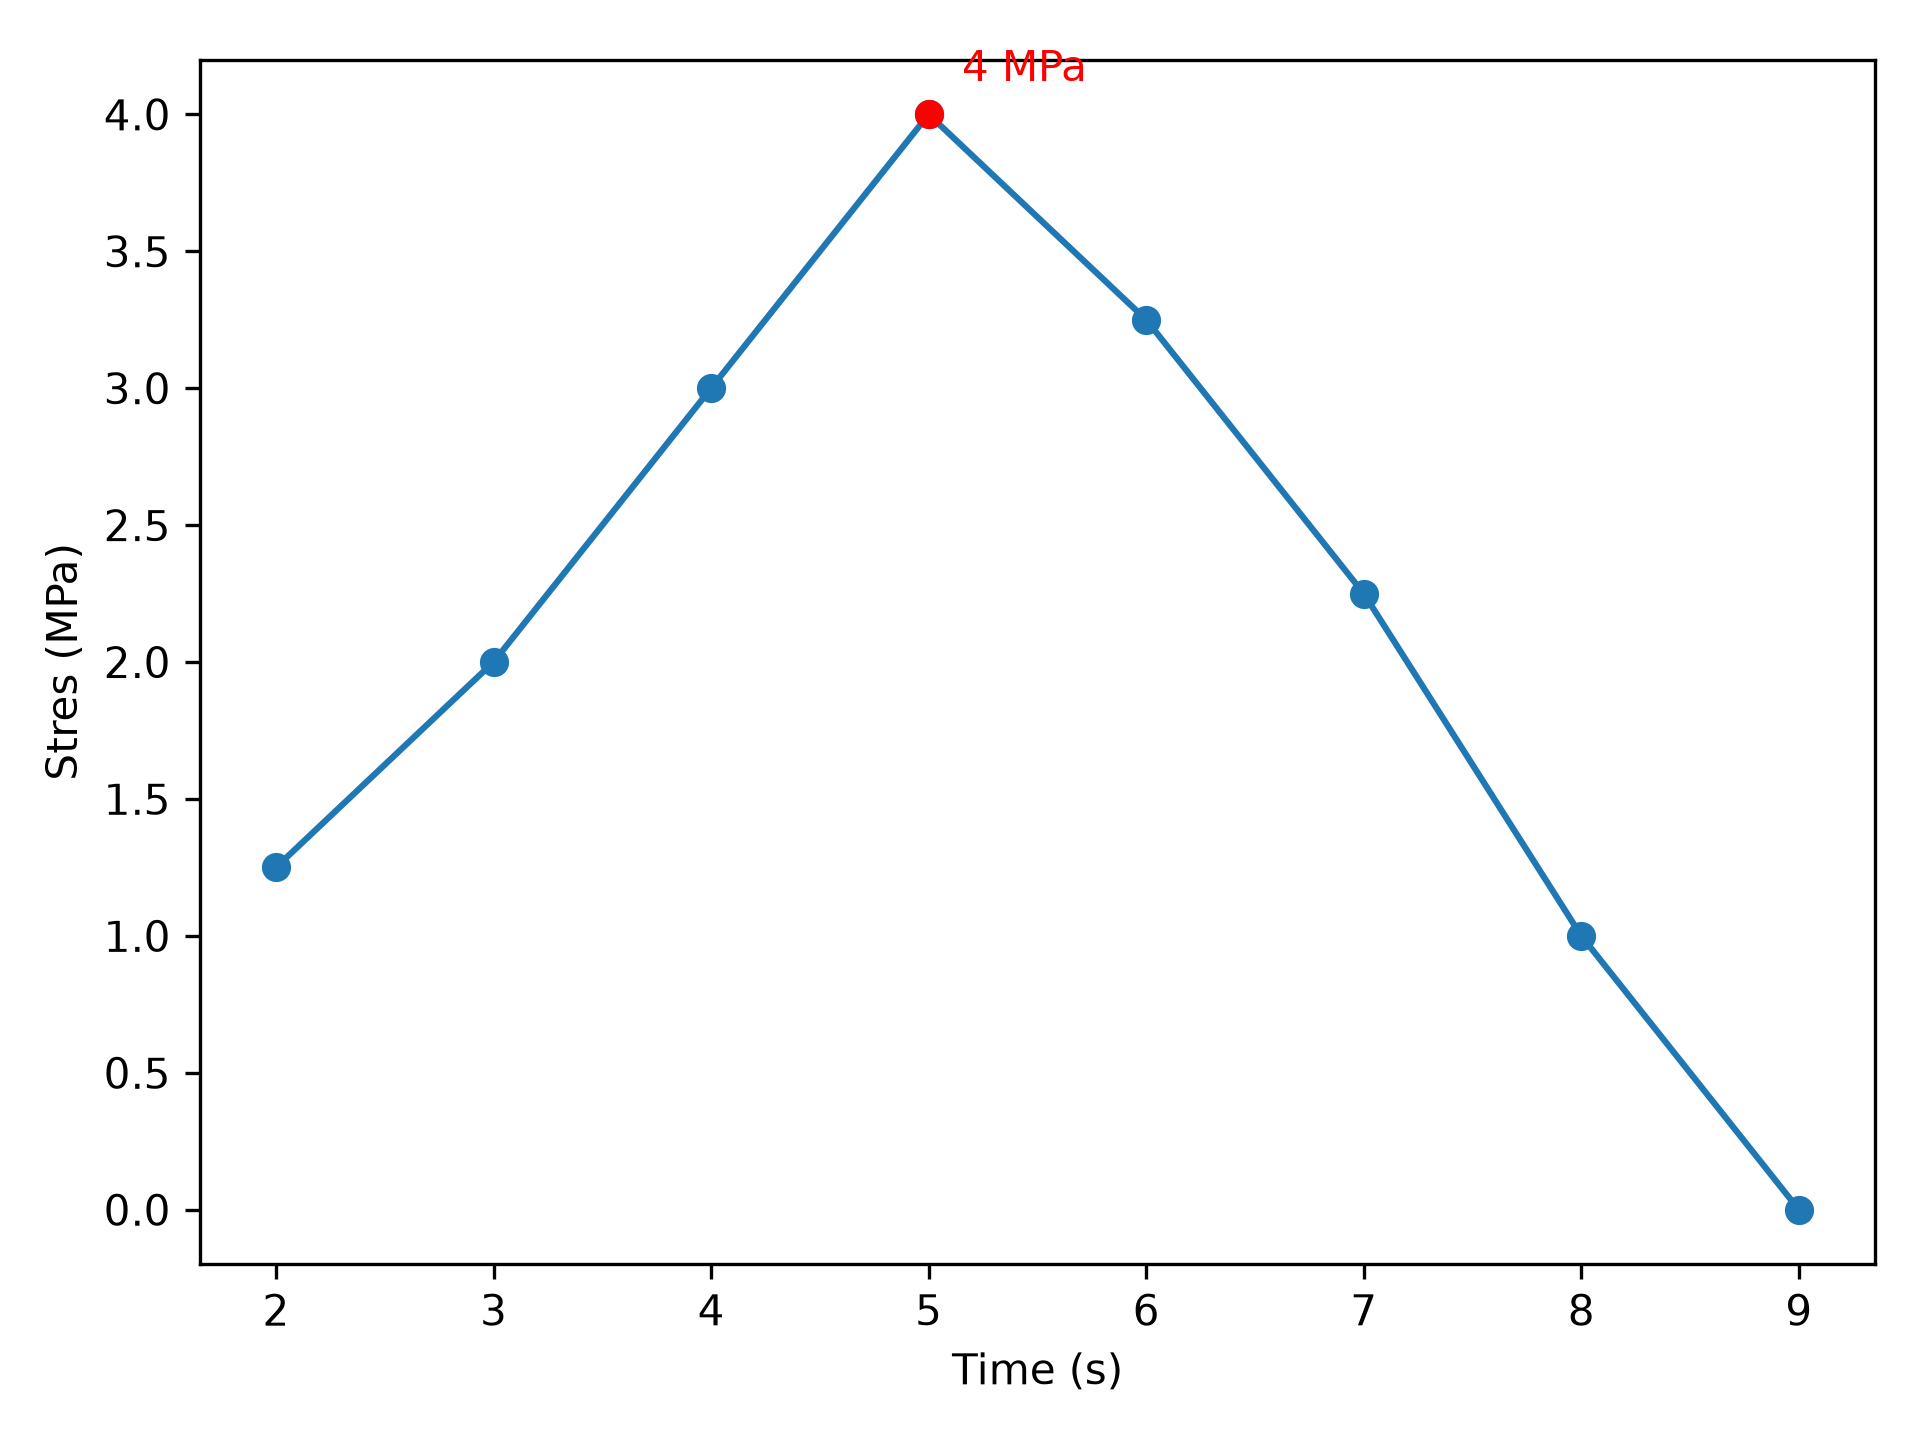
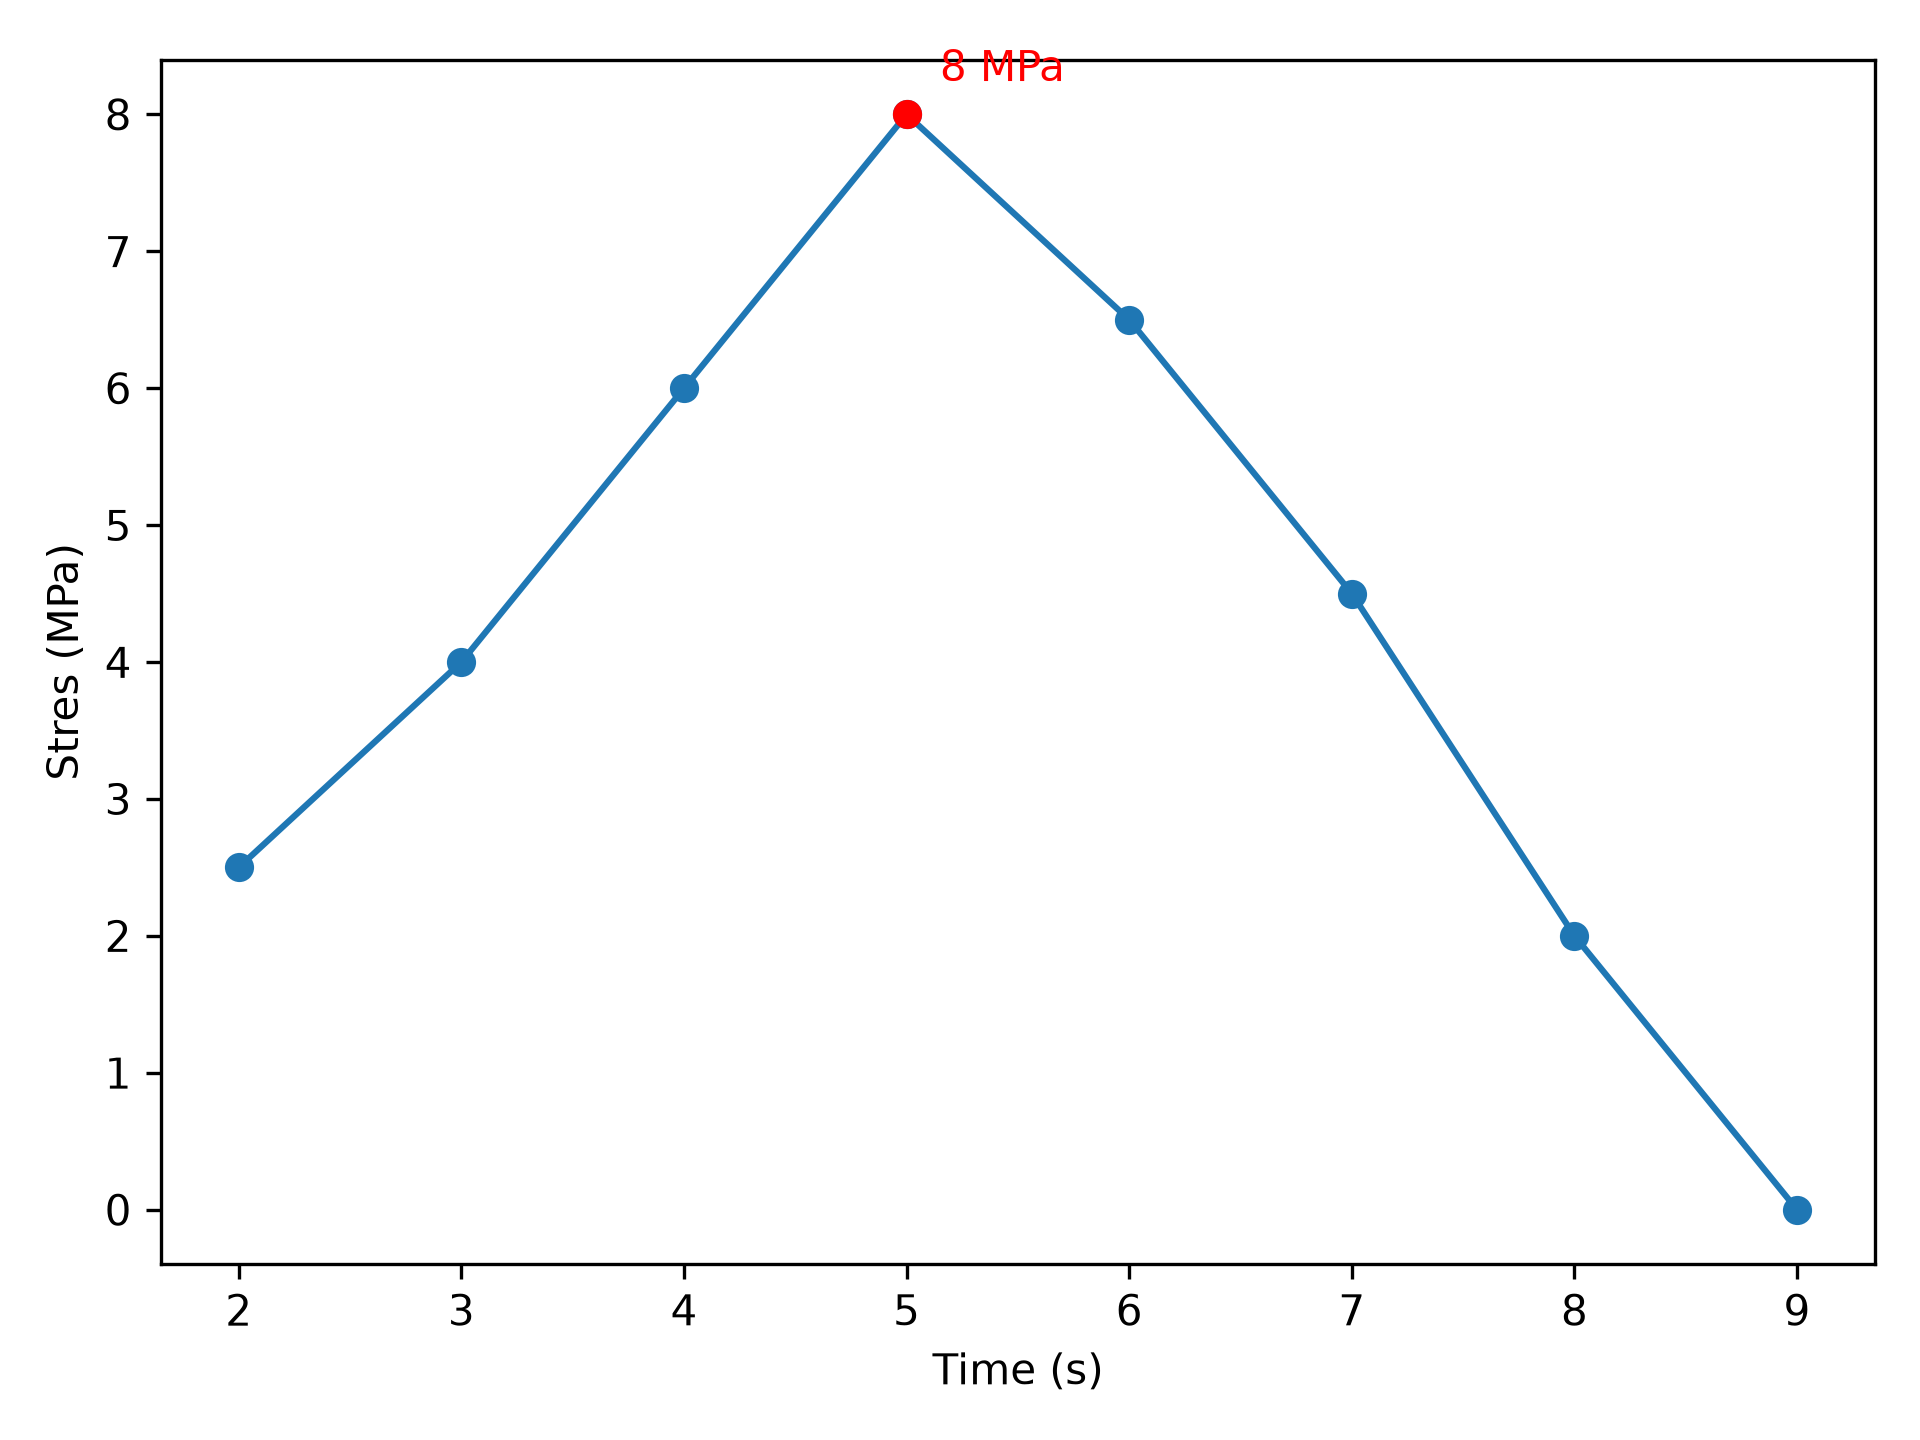
Update README and load_analyzer to reflect changes in load analysis calculations and improve documentation

diff --git a/load_analyzer.py b/load_analyzer.py
@@ -15,7 +15,7 @@ def main():
 
     result_path = Path(__file__).with_name("load_result.csv")
     plot_path = Path(__file__).with_name("stress_plot.png")
-    cross_section_area_mm2 = 200
+    cross_section_area_mm2 = 100
     threshold_stress_mpa = 6
 
     with input_path.open("r", newline="", encoding="utf-8-sig") as csv_file:

diff --git a/README.md b/README.md
@@ -1,23 +1,37 @@
-# 공학용 힘 단위 변환기
+# 힘 단위 변환기 및 하중 분석기
 
 ## 프로그램 용도
 
-Tkinter 그래픽 화면에서 힘의 크기를 입력하고 `kN`, `N`, `kgf` 단위로 변환하는 프로그램입니다. 변환 결과는 `N`과 `kgf`로 표시되며, 변환한 값은 화면의 변환 기록에 추가됩니다.
+Tkinter 그래픽 화면에서 힘의 크기를 `kN`, `N`, `kgf` 단위로 변환하는 프로그램과, CSV의 시간·하중 데이터를 분석하는 프로그램으로 구성되어 있습니다. 하중 분석기는 응력을 계산하고 결과 CSV와 시간-응력 그래프를 생성합니다.
 
 ## 필요 환경
 
 - Python 3
 - Tkinter가 설치된 Python 환경
 - 그래픽 화면을 표시할 수 있는 데스크톱 환경
+- 하중 분석기용 `matplotlib`
 
-별도 외부 Python 패키지는 사용하지 않습니다. Windows용 일반 Python 설치에는 Tkinter가 포함되어 있지만, 설치 구성에 따라 다를 수 있습니다.
+힘 단위 변환기는 Python 표준 라이브러리만 사용합니다. 하중 분석기는 그래프 저장을 위해 `matplotlib`이 필요합니다. Windows용 일반 Python 설치에는 Tkinter가 포함되어 있지만, 설치 구성에 따라 다를 수 있습니다.
 
 ## 실행
 
 PowerShell에서 이 폴더로 이동한 뒤 실행합니다.
 
 ```powershell
-python ".\python force_converter_gui 2.py"
+.\.venv\Scripts\python.exe ".\python force_converter_gui 2.py"
+.\.venv\Scripts\python.exe .\load_analyzer.py
+```
+
+하중 분석기는 기본으로 `load_bad.csv`를 읽습니다. 다른 CSV를 분석하려면 파일명을 인수로 지정합니다.
+
+```powershell
+.\.venv\Scripts\python.exe .\load_analyzer.py .\load_data.csv
+```
+
+`matplotlib`이 설치되어 있지 않다면 가상 환경에 설치합니다.
+
+```powershell
+.\.venv\Scripts\python.exe -m pip install matplotlib
 ```
 
 ## 입력 방법
@@ -48,3 +62,21 @@ python ".\python force_converter_gui 2.py"
 | `-3` | `kgf` | 음수 입력은 허용되지 않음 |
 | `NaN` 또는 `inf` | `N` | 유한한 숫자가 아님 |
 | `5` | `lb` | 지원하지 않는 단위 |
+
+## 하중 분석기
+
+### 입력 데이터
+
+CSV에는 `time_s`와 `force_N` 열이 있어야 합니다. 시간 단위는 초(s), 하중 단위는 뉴턴(N)입니다. 입력 파일은 수정하지 않습니다.
+
+### 계산 및 출력
+
+- 단면적 `100 mm²`를 사용해 `stress_MPa = force_N / 100`으로 응력을 계산합니다. `N/mm²`는 `MPa`와 같습니다.
+- 최대하중과 해당 시간, 최대응력과 해당 시간을 출력합니다.
+- 기준 응력 `6 MPa`를 초과하는 데이터 개수를 출력합니다. 응력이 정확히 `6 MPa`인 값은 초과 개수에 포함하지 않습니다.
+- 시간-응력 그래프에 모든 유효 데이터 점과 연결선을 표시하고, 최대응력 지점을 강조해 값을 표시합니다. 축 이름은 `Time (s)`, `Stres (MPa)`입니다.
+- `load_result.csv`에 유효 데이터와 `stress_MPa` 열을 저장하고, 그래프는 `stress_plot.png`로 저장합니다. 두 결과 파일은 프로그램과 같은 폴더에 생성됩니다.
+
+### 잘못된 행 처리
+
+`time_s` 또는 `force_N`이 빈칸, 숫자가 아닌 값, 유한하지 않은 숫자이면 해당 행의 CSV 행 번호와 문제 열·값·이유를 출력하고 계산과 그래프에서 제외합니다. 제외한 행 수와 유효한 데이터 수를 함께 출력합니다. 유효한 데이터가 하나도 없으면 계산과 그래프 생성을 중단합니다.
